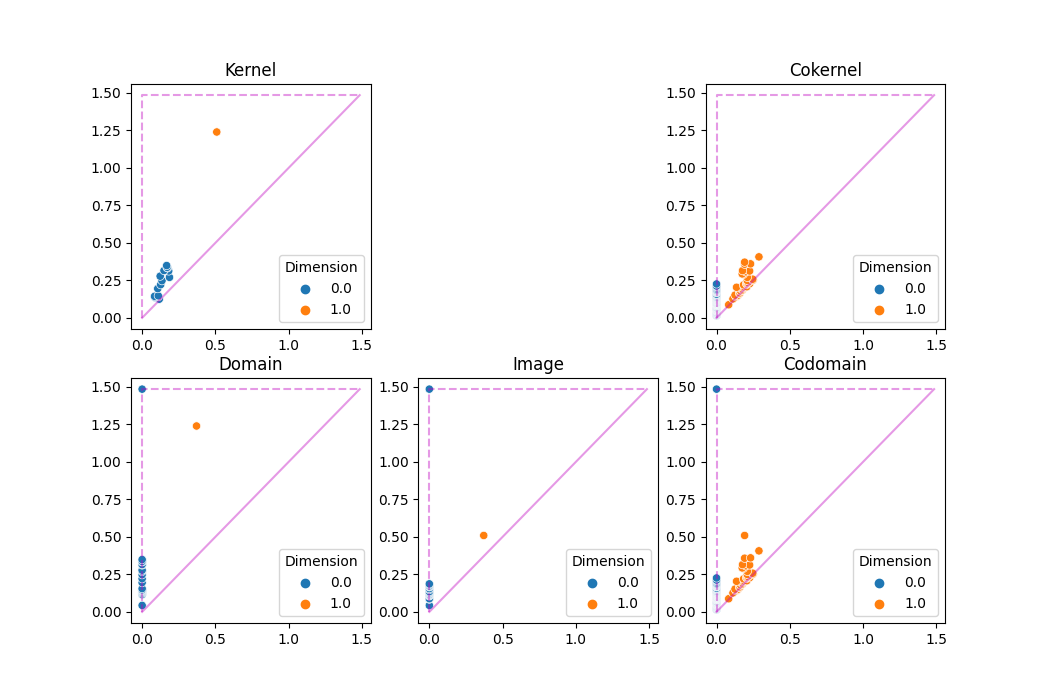
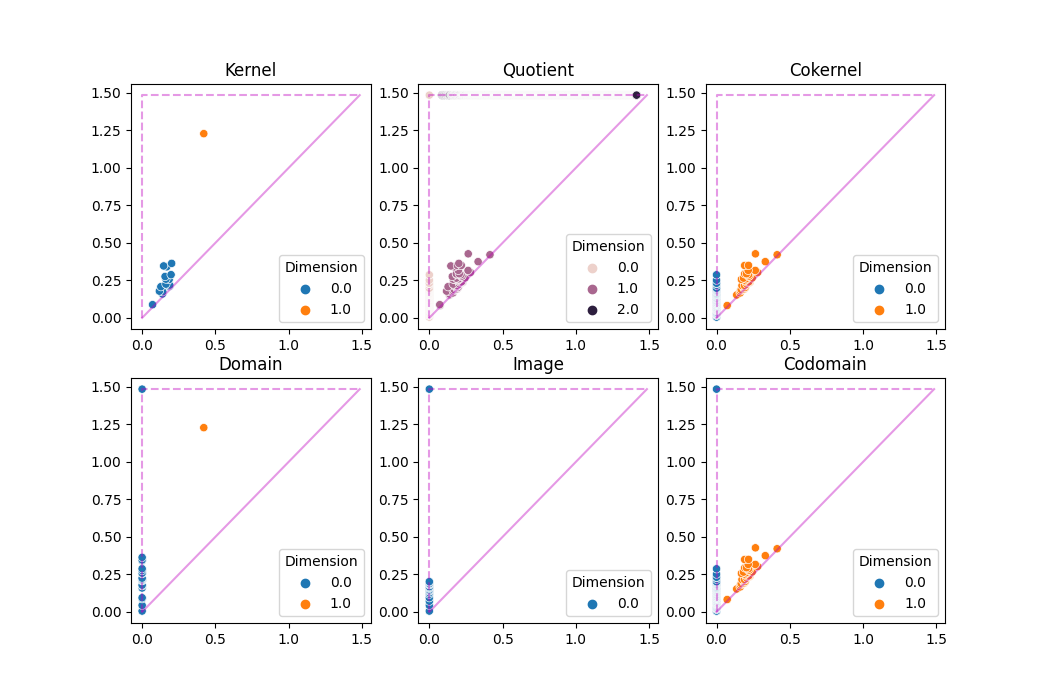
Implementation of quotient diagram

diff --git a/src/lib.rs b/src/lib.rs
@@ -7,8 +7,8 @@ use std::{
 use pyo3::prelude::*;
 
 pub trait IndexMapping {
-    fn map(&self, index: usize) -> usize;
-    fn inverse_map(&self, index: usize) -> usize;
+    fn map(&self, index: usize) -> Option<usize>;
+    fn inverse_map(&self, index: usize) -> Option<usize>;
 }
 
 #[derive(Debug)]
@@ -18,13 +18,13 @@ struct VectorMapping {
 }
 
 impl IndexMapping for VectorMapping {
-    fn map(&self, index: usize) -> usize {
-        self.internal[index].unwrap()
+    fn map(&self, index: usize) -> Option<usize> {
+        self.internal[index]
     }
 
-    fn inverse_map(&self, index: usize) -> usize {
+    fn inverse_map(&self, index: usize) -> Option<usize> {
         let inv = self.internal_inverse.as_ref().unwrap();
-        inv[index]
+        Some(inv[index])
     }
 }
 
@@ -91,22 +91,26 @@ impl Column for VecColumn {
         }
     }
 
+    // TODO: Reimplement so that this happens in-place?
     fn reorder_rows(&mut self, mapping: &impl IndexMapping) {
-        // Map row idxs to new row idxs
-        for row_idx in self.internal.iter_mut() {
-            *row_idx = mapping.map(*row_idx);
-        }
-        // Make sure idxs still appear smallest to largest
-        self.internal.sort();
+        let mut new_col: Vec<usize> = self
+            .internal
+            .iter()
+            .filter_map(|&row_idx| mapping.map(row_idx))
+            .collect();
+        new_col.sort();
+        self.internal = new_col;
     }
 
+    // TODO: Reimplement so that this happens in-place?
     fn unreorder_rows(&mut self, mapping: &impl IndexMapping) {
-        // Map row idxs to new row idxs
-        for row_idx in self.internal.iter_mut() {
-            *row_idx = mapping.inverse_map(*row_idx);
-        }
-        // Make sure idxs still appear smallest to largest
-        self.internal.sort();
+        let mut new_col: Vec<usize> = self
+            .internal
+            .iter()
+            .filter_map(|&row_idx| mapping.inverse_map(row_idx))
+            .collect();
+        new_col.sort();
+        self.internal = new_col;
     }
 }
 
@@ -156,8 +160,10 @@ pub struct DecompositionEnsemble {
     im: RVDecomposition,
     ker: RVDecomposition,
     cok: RVDecomposition,
+    quo: RVDecomposition,
     l_first_mapping: VectorMapping,
     kernel_mapping: VectorMapping,
+    quo_mapping: VectorMapping,
     g_elements: Vec<bool>,
     size_of_l: usize,
     size_of_k: usize,
@@ -237,6 +243,77 @@ fn build_kernel_mapping(dim_decomposition: &RVDecomposition) -> VectorMapping {
     }
 }
 
+// WARNING: This functions makes the following assumption:
+// The 0-cells are precisely the cells with empty boundaries
+fn build_quo_mapping(
+    matrix: &Vec<VecColumn>,
+    g_elements: &Vec<bool>,
+    size_of_l: usize,
+    size_of_k: usize,
+) -> (VectorMapping, usize) {
+    let mut l_index: Option<usize> = None;
+    // Keeps track of next index in new ordering
+    // We only increment counter when we encounter a cell not in L or the first L-cell
+    let mut counter = 0;
+    let size_of_quo = size_of_k - size_of_l + 1;
+    let mut idx_list: Vec<Option<usize>> = vec![];
+    let mut inverse_mapping = vec![0; size_of_quo];
+    for (idx, (r_col, &in_g)) in matrix.iter().zip(g_elements.iter()).enumerate() {
+        if in_g {
+            if l_index.is_none() {
+                l_index = Some(counter);
+                // Counter should idx up to now
+                inverse_mapping[counter] = idx;
+                counter += 1;
+            }
+            if r_col.internal.len() == 0 {
+                // This is a vertex in L, should get_mapped to l_index
+                idx_list.push(l_index)
+            } else {
+                // This is a higher-dimensional cell
+                idx_list.push(None)
+            }
+        } else {
+            idx_list.push(Some(counter));
+            inverse_mapping[counter] = idx;
+            counter += 1;
+        }
+    }
+    (
+        VectorMapping {
+            internal: idx_list,
+            internal_inverse: Some(inverse_mapping),
+        },
+        l_index.unwrap(),
+    )
+}
+
+// WARNING: This functions makes the following assumption:
+// If the boundary of a cell is entirely contained in L then that cell is in L
+// This ensures that a 1-cell not in L can have at most 1 vertex in L
+// This makes it easier to map the boundary
+// Also inherits assumption from build_quo_mapping
+fn build_dquo(
+    matrix: &Vec<VecColumn>,
+    g_elements: &Vec<bool>,
+    quo_mapping: &VectorMapping,
+    l_index: usize,
+    size_of_l: usize,
+    size_of_k: usize,
+) -> Vec<VecColumn> {
+    let mut new_matrix = Vec::with_capacity(size_of_k - size_of_l + 1);
+    for (idx, (col, &in_g)) in matrix.iter().zip(g_elements.iter()).enumerate() {
+        if in_g && idx != l_index {
+            // Don't add elements of L, unless its the first one
+            continue;
+        }
+        let mut new_col = col.clone();
+        new_col.reorder_rows(quo_mapping);
+        new_matrix.push(new_col);
+    }
+    new_matrix
+}
+
 fn build_dker(dim_decomposition: &RVDecomposition, mapping: &impl IndexMapping) -> Vec<VecColumn> {
     let rim_cols = dim_decomposition.r.iter();
     let vim_cols = dim_decomposition.v.iter();
@@ -267,7 +344,7 @@ fn build_dcok(
     for col_idx in 0..df.len() {
         let col_in_g = g_elements[col_idx];
         if col_in_g {
-            let idx_in_dg = mapping.map(col_idx);
+            let idx_in_dg = mapping.map(col_idx).unwrap();
             let dg_rcol = &dg_decomposition.r[idx_in_dg];
             if dg_rcol.pivot().is_none() {
                 let mut next_col = dg_decomposition.v[idx_in_dg].clone();
@@ -292,7 +369,7 @@ pub fn all_decompositions(matrix: Vec<AnnotatedVecColumn>) -> DecompositionEnsem
     let size_of_l = g_elements.iter().filter(|in_g| **in_g).count();
     let size_of_k = matrix.len();
     let df: Vec<VecColumn> = matrix.into_iter().map(|anncol| anncol.col).collect();
-    let (f, (g, cok), (im, ker, kernel_mapping)) = thread::scope(|s| {
+    let (f, (g, cok), (im, ker, kernel_mapping), (quo, quo_mapping)) = thread::scope(|s| {
         let thread1 = s.spawn(|| {
             // Decompose Df
             let out = rv_decompose(df.clone());
@@ -323,10 +400,25 @@ pub fn all_decompositions(matrix: Vec<AnnotatedVecColumn>) -> DecompositionEnsem
             let kernel_mapping = build_kernel_mapping(&decompose_dim);
             (decompose_dim, decompose_dker, kernel_mapping)
         });
+        let thread4 = s.spawn(|| {
+            let (quo_mapping, l_index) = build_quo_mapping(&df, &g_elements, size_of_l, size_of_k);
+            let dquo = build_dquo(
+                &df,
+                &g_elements,
+                &quo_mapping,
+                l_index,
+                size_of_l,
+                size_of_k,
+            );
+            let decompose_dquo = rv_decompose(dquo);
+            println!("Decomposed quo");
+            (decompose_dquo, quo_mapping)
+        });
         (
             thread1.join().unwrap(),
             thread2.join().unwrap(),
             thread3.join().unwrap(),
+            thread4.join().unwrap(),
         )
     });
     DecompositionEnsemble {
@@ -335,9 +427,11 @@ pub fn all_decompositions(matrix: Vec<AnnotatedVecColumn>) -> DecompositionEnsem
         im,
         ker,
         cok,
+        quo,
         g_elements,
         l_first_mapping,
         kernel_mapping,
+        quo_mapping,
         size_of_l,
         size_of_k,
     }
@@ -384,11 +478,11 @@ impl PersistenceDiagram {
             .unpaired
             .iter()
             .cloned()
-            .map(|idx| mapping.inverse_map(idx))
+            .map(|idx| mapping.inverse_map(idx).unwrap())
             .collect();
         for (b_idx, d_idx) in self.paired.iter_mut() {
-            *b_idx = mapping.inverse_map(*b_idx);
-            *d_idx = mapping.inverse_map(*d_idx);
+            *b_idx = mapping.inverse_map(*b_idx).unwrap();
+            *d_idx = mapping.inverse_map(*d_idx).unwrap();
         }
     }
 }
@@ -423,6 +517,8 @@ struct DiagramEnsemble {
     ker: PersistenceDiagram,
     #[pyo3(get)]
     cok: PersistenceDiagram,
+    #[pyo3(get)]
+    quo: PersistenceDiagram,
 }
 
 impl DecompositionEnsemble {
@@ -447,7 +543,7 @@ impl DecompositionEnsemble {
         if !in_l {
             return false;
         }
-        let g_index = self.l_first_mapping.map(idx);
+        let g_index = self.l_first_mapping.map(idx).unwrap();
         let negative_in_g = self.g.r[g_index].pivot().is_some();
         if !negative_in_g {
             return false;
@@ -468,9 +564,9 @@ impl DecompositionEnsemble {
             }
             if self.is_kernel_death(idx) {
                 // TODO: Problem kernel columns have different indexing to f
-                let ker_idx = self.kernel_mapping.map(idx);
+                let ker_idx = self.kernel_mapping.map(idx).unwrap();
                 let g_birth_index = self.ker.r[ker_idx].pivot().unwrap();
-                let birth_index = self.l_first_mapping.inverse_map(g_birth_index);
+                let birth_index = self.l_first_mapping.inverse_map(g_birth_index).unwrap();
                 dgm.unpaired.remove(&birth_index);
                 dgm.paired.push((birth_index, idx));
             }
@@ -482,7 +578,7 @@ impl DecompositionEnsemble {
         let mut dgm = PersistenceDiagram::default();
         for idx in 0..self.size_of_k {
             if self.g_elements[idx] {
-                let g_idx = self.l_first_mapping.map(idx);
+                let g_idx = self.l_first_mapping.map(idx).unwrap();
                 let pos_in_g = self.g.r[g_idx].pivot().is_none();
                 if pos_in_g {
                     dgm.unpaired.insert(idx);
@@ -496,7 +592,7 @@ impl DecompositionEnsemble {
                 if !lowest_rim_in_l {
                     continue;
                 }
-                let birth_idx = self.l_first_mapping.inverse_map(lowest_in_rim);
+                let birth_idx = self.l_first_mapping.inverse_map(lowest_in_rim).unwrap();
                 dgm.unpaired.remove(&birth_idx);
                 dgm.paired.push((birth_idx, idx));
             }
@@ -508,7 +604,7 @@ impl DecompositionEnsemble {
         let mut dgm = PersistenceDiagram::default();
         for idx in 0..self.size_of_k {
             let pos_in_f = self.f.r[idx].pivot().is_none();
-            let g_idx = self.l_first_mapping.map(idx);
+            let g_idx = self.l_first_mapping.map(idx).unwrap();
             let not_in_l_or_neg_in_g = (!self.g_elements[idx]) || self.g.r[g_idx].pivot().is_some();
             if pos_in_f && not_in_l_or_neg_in_g {
                 dgm.unpaired.insert(idx);
@@ -534,6 +630,11 @@ impl DecompositionEnsemble {
             g: {
                 let mut dgm = self.g.diagram();
                 dgm.unreorder_idxs(&self.l_first_mapping);
+                dgm
+            },
+            quo: {
+                let mut dgm = self.quo.diagram();
+                dgm.unreorder_idxs(&self.quo_mapping);
                 dgm
             },
             im: self.image_diagram(),

diff --git a/big_test.py b/big_test.py
@@ -136,6 +136,15 @@ plot_diagram(
     max_dim=max_diagram_dim,
 )
 plot_diagram(
+    dgms.quo,
+    entrance_times,
+    dimensions,
+    truncation,
+    ax=axes[0][1],
+    title="Quotient",
+    max_dim=max_diagram_dim + 1,
+)
+plot_diagram(
     dgms.cok,
     entrance_times,
     dimensions,
@@ -172,5 +181,4 @@ plot_diagram(
     legend=True,
     max_dim=max_diagram_dim,
 )
-fig.delaxes(axes[0][1])
 plt.savefig("5pack.png")

diff --git a/test.py b/test.py
@@ -37,3 +37,7 @@ print(dgms.ker.paired)
 print("cok:")
 print(dgms.cok.unpaired)
 print(dgms.cok.paired)
+
+print("quo:")
+print(dgms.quo.unpaired)
+print(dgms.quo.paired)
